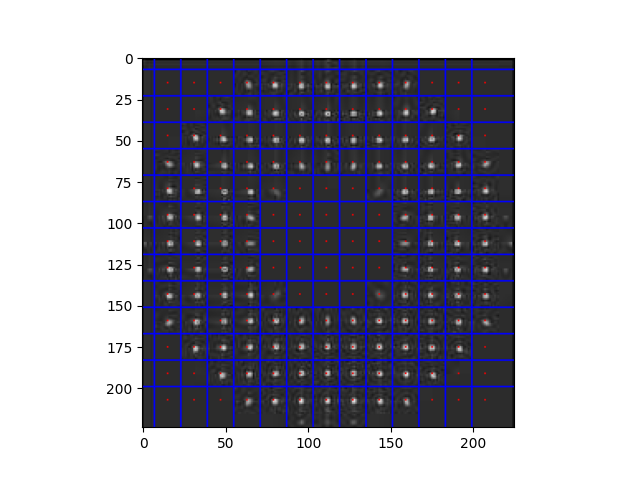
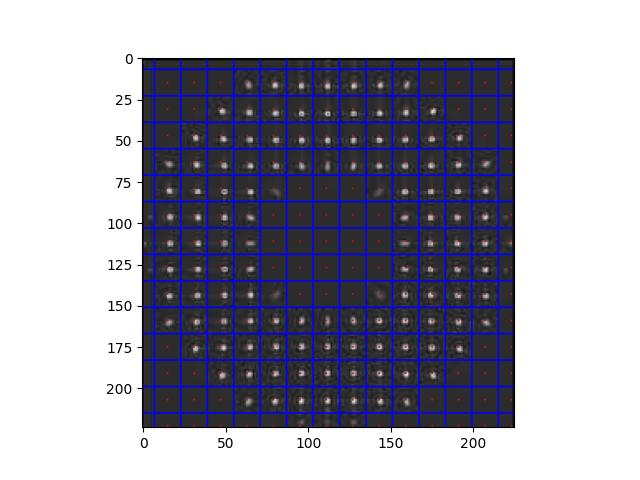
Fix grid

Changed region(s): [[0.2188, 0.125, 0.7812, 0.875]]

diff --git a/lib/grid.py b/lib/grid.py
@@ -12,10 +12,10 @@ from matplotlib import pyplot as plt
 def draw_grid(_img, grid=13, grid_size=16, pad_top=8, pad_left=8):
     output=np.copy(_img)
     size=_img.shape[0]
-    for i in range(grid):
+    for i in range(grid+1):
         output[pad_top-1+grid_size*i:pad_top+grid_size*i,:]=[0,0,255]
         output[:,pad_left-1+grid_size*i:pad_left+grid_size*i]=[0,0,255]
-        for j in range(grid):
+        for j in range(grid+1):
             output[pad_top-1+grid_size//2+grid_size*i:pad_top+grid_size//2+grid_size*i, 
                    pad_left-1+grid_size//2+grid_size*j:pad_left+grid_size//2+grid_size*j,...]=[255,0,0]
     return output
